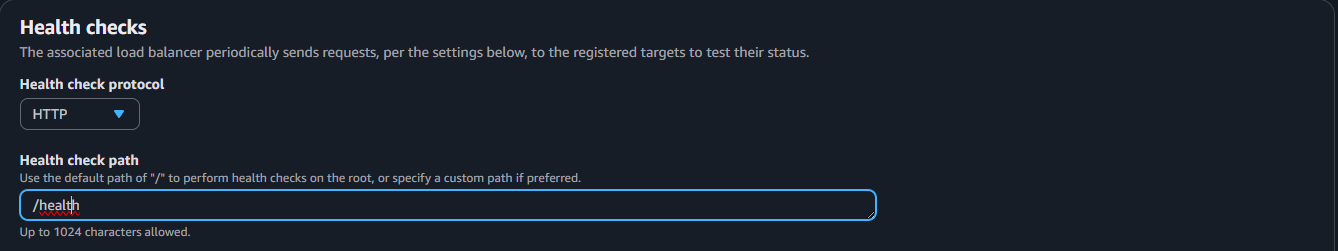
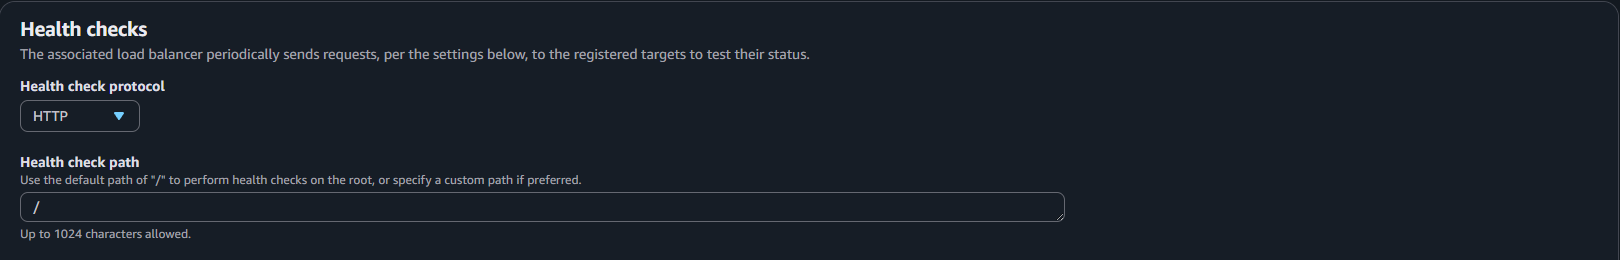
UPDATE

diff --git a/Infrastructure/README.md b/Infrastructure/README.md
@@ -14,6 +14,8 @@
 - [Elastic File System (EFS)](#elastic-file-system-efs)
 - [Relational Database Service (RDS)](#relational-database-service-rds)
 - [Elastic Compute Cloud (EC2)](#elastic-compute-cloud-ec2)
+- [Target Groups](#target-groups)
+- [Launch Template](#launch-template)
 - [Aplication Load Balancer (ALB)](#aplication-load-balancer-alb)
 - [Auto Scalling Group (ASG)](#auto-scalling-group-asg)
 
@@ -107,7 +109,7 @@ Selecione o internet gateway, clique em Actions > Attach to VPC e selecione a VP
 
 ![Sucess](Images/ElasticFileSystem/sucess.PNG)
 
-Vá em View file system > procure por DNS Name > clique para copiar e guarde o conteúdo em um local seguro, ele será importante para montar o EFS dentro das intâncias EC2 via userdata
+> Vá em View file system > procure por DNS Name > clique para copiar e guarde o conteúdo em um local seguro, ele será importante para montar o EFS dentro das intâncias EC2 via userdata
 
 # Relational Database Service (RDS)
 
@@ -124,17 +126,31 @@ Vá em View file system > procure por DNS Name > clique para copiar e guarde o c
 ![RDS instance_configuration](Images/RelationalDatabaseService/instance_configuration.PNG)
 
 ![RDS connectivity1](Images/RelationalDatabaseService/connectivity1.PNG)
-
 ![RDS connectivity2](Images/RelationalDatabaseService/connectivity2.PNG)
 
 ![RDS addtional_configuration](Images/RelationalDatabaseService/addtional_configuration.PNG)
 
 ![RDS sucess](Images/RelationalDatabaseService/sucess.PNG)
 
-Vá em View connection details > procure por Endpoint > clique para copiar e guarde o conteúdo em um local seguro, ele será importante para conectar o RDS com as intâncias EC2 via userdata
+> Vá em View connection details > procure por Endpoint > clique para copiar e guarde o conteúdo em um local seguro, ele será importante para conectar o RDS com as intâncias EC2 via userdata
 
-# Elastic Compute Cloud (EC2)
+# Target Groups
+
+![Target Group basic_configuration1](Images/TargetGroup/basic_configuration1.PNG)
+![Target Group basic_configuration2](Images/TargetGroup/basic_configuration2.PNG)
+
+![Target Group health_check](Images/TargetGroup/health_check.PNG)
+
+# Launch Template
 
 # Aplication Load Balancer (ALB)
+
+![Aplication Load Balancer ](Images/AplicationLoadBalancer/basic_configuration.PNG)
+
+![Aplication Load Balancer ](Images/AplicationLoadBalancer/network_mapping.PNG)
+
+![Aplication Load Balancer ](Images/AplicationLoadBalancer/sg.PNG)
+
+![Aplication Load Balancer ](Images/AplicationLoadBalancer/listeners.PNG)
 
 # Auto Scalling Group (ASG)
